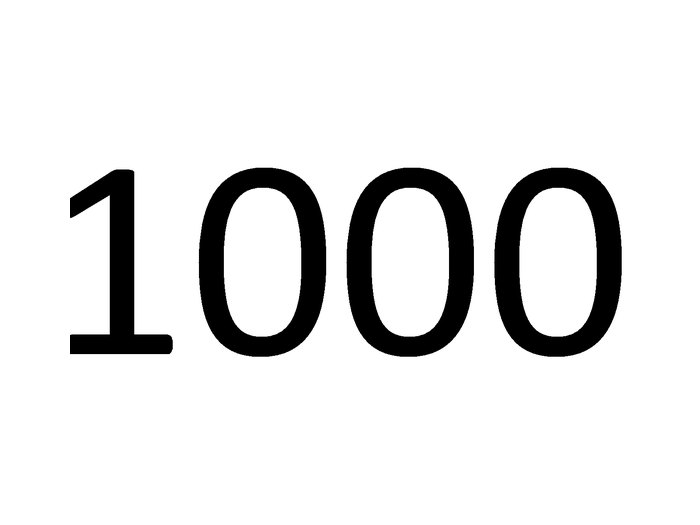
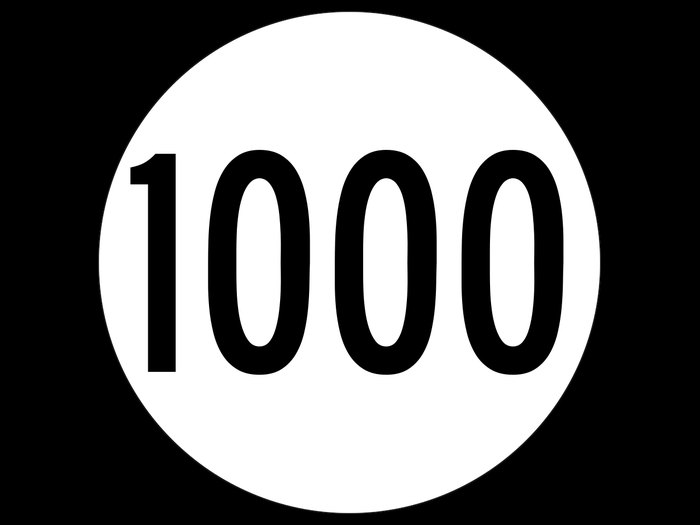
Planetas y números; la clave y las tarjetas legibles van en la lista
- Tarjetas nuevas: Urano (r); Júpiter, Marte, Saturno, catorce (ar);
  Venus, dos (es); cinco, once, quince, sesenta, setenta, ochenta,
  noventa (an); doce (ce); Nelson (al). Imágenes nuevas de uno, ocho, mil.
- Regla nueva: la palabra clave y cada tarjeta que se puede leer con lo
  visto (sin diptongos, trabadas ni sílabas al revés todavía no dadas)
  también va en «Palabras que ya se pueden leer»: 68 palabras agregadas.
  Momia, Antonio y Nelson (antes de al) quedan solo como tarjeta.

Claude-Session: https://claude.ai/code/session_01Q6txF3eTK3qEpQUY4Dkn8m

diff --git a/escritura/abecedario.js b/escritura/abecedario.js
@@ -149,7 +149,7 @@ window.ABECEDARIO = [
     silabas: ["lo", "le", "li", "lu", "la"],
     palabras: ["loma", "sala", "paloma", "lima", "lupa", "mula",
                "palo", "pule", "lomo", "pala", "ala", "alelí",
-               "lema", "ola", "pelo"],
+               "lema", "ola", "pelo","pila"],
     tarjetas: [
       { palabra: "lima", foto: "img/lecciones/l/lima.jpg" },
       { palabra: "lupa", foto: "img/lecciones/l/lupa.jpg" },
@@ -195,7 +195,7 @@ window.ABECEDARIO = [
     silabas: ["ne", "ni", "na", "nu", "no"],
     palabras: ["nena", "pino", "maní", "nulo", "mano", "pepino",
                "pena", "mina", "enano", "luna", "molino", "lana",
-               "uno", "melena"],
+               "uno", "melena","nene","mono"],
     tarjetas: [
       { palabra: "mono", foto: "img/lecciones/n/mono.jpg" },
       { palabra: "luna", foto: "img/lecciones/n/luna.jpg" },
@@ -290,7 +290,7 @@ window.ABECEDARIO = [
     silabas: ["da", "di", "do", "du", "de"],
     palabras: ["dama", "seda", "todo", "nada", "duda", "mudo",
                "pomada", "soda", "dime", "lado", "moneda", "pide",
-               "medida"],
+               "medida","dado","dedo","nudo","nido"],
     tarjetas: [
       { palabra: "dedo", foto: "img/lecciones/d/dedo.jpg" },
       { palabra: "nudo", foto: "img/lecciones/d/nudo.jpg" },
@@ -337,12 +337,13 @@ window.ABECEDARIO = [
     notaSilabas: "Van en el orden de la cartilla: ro, re, ra, ru, ri. Acuérdese de lo del aviso: sueltas suenan fuertes.",
     notaFrases: "Acá las imágenes son dibujos, no fotos de la casa. Léalas señalando con el dedo, palabra por palabra.",
     silabas: ["ro", "re", "ra", "ru", "ri"],
-    palabras: ["toro","salero","mora","muro","mariposa","torero","arena","madera","pera","loro","arete","marino"],
+    palabras: ["toro","salero","mora","muro","mariposa","torero","arena","madera","pera","loro","arete","marino","aro","tetero","arepa","Urano"],
     tarjetas: [
       { palabra: "aro", foto: "img/lecciones/r/aro.jpg" },
       { palabra: "tetero", foto: "img/lecciones/r/tetero.jpg" },
       { palabra: "loro", foto: "img/lecciones/r/loro.jpg" },
-      { palabra: "arepa", foto: "img/lecciones/r/arepa.jpg" }
+      { palabra: "arepa", foto: "img/lecciones/r/arepa.jpg" },
+      { palabra: "Urano", foto: "img/lecciones/r/urano.jpg" }
     ],
     frases: [
       { texto: "ese toro me mira.", foto: "img/lecciones/r/toro-mira.jpg", ancha: true, rel: "16 / 9" },
@@ -422,7 +423,7 @@ window.ABECEDARIO = [
     notaSilabas: "Solo son tres, no cinco. Con la e y la i la c suena distinto, y eso viene después.",
     notaFrases: "Acá las imágenes son dibujos, no fotos de la casa. Léalas señalando con el dedo, palabra por palabra.",
     silabas: ["ca", "co", "cu"],
-    palabras: ["casa","copa","pico","cono","camisa","saco","cuna","corona","loco","cara","capa","rico","cola"],
+    palabras: ["casa","copa","pico","cono","camisa","saco","cuna","corona","loco","cara","capa","rico","cola","carro","carreta"],
     tarjetas: [
       { palabra: "carro", foto: "img/lecciones/c/carro.jpg" },
       { palabra: "copa", foto: "img/lecciones/c/copa.jpg" },
@@ -470,7 +471,7 @@ window.ABECEDARIO = [
     notaFrases: "Acá las imágenes son dibujos, no fotos de la casa. Léalas señalando con el dedo, palabra por palabra.",
     silabas: ["ña", "ñi", "ñu", "ñe", "ño"],
     palabras: ["niña","niño","uña","año","moño","paño","leña","caña",
-               "señora","mañana","piña","muñeca"],
+               "señora","mañana","piña","muñeca","araña","puño","Toño"],
     tarjetas: [
       { palabra: "muñeca", foto: "img/lecciones/enie/muneca.jpg" },
       { palabra: "araña", foto: "img/lecciones/enie/arana.jpg" },
@@ -651,7 +652,7 @@ window.ABECEDARIO = [
     notaFrases: "Acá las imágenes son dibujos, no fotos de la casa. Léalas señalando con el dedo, palabra por palabra.",
     silabas: ["ya", "yi", "yo", "yu", "ye"],
     palabras: ["yate","yuca","yeso","yodo","rayo","mayo","raya","ayuno",
-               "payaso","yola","arroyo","soya"],
+               "payaso","yola","arroyo","soya","yema"],
     tarjetas: [
       { palabra: "yema", foto: "img/lecciones/y/yema.jpg" },
       { palabra: "rayo", foto: "img/lecciones/y/rayo.jpg" },
@@ -736,7 +737,7 @@ window.ABECEDARIO = [
     notaFrases: "Acá las imágenes son dibujos, no fotos de la casa. Léalas señalando con el dedo, palabra por palabra.",
     silabas: ["hi", "ha", "hu", "ho", "he"],
     palabras: ["hilo","humo","hora","haba","helado","herida","hada","hamaca",
-               "hábito","higo","herradura","hipo","hipopótamo"],
+               "hábito","higo","herradura","hipo","hipopótamo","herido"],
     tarjetas: [
       { palabra: "herido", foto: "img/lecciones/h/herido.jpg" },
       { palabra: "herradura", foto: "img/lecciones/h/herradura.jpg" },
@@ -781,7 +782,7 @@ window.ABECEDARIO = [
     silabas: ["ja", "ju", "ji", "jo", "je"],
     palabras: ["jarro","jugo","jirafa","jefe","joya","reja","paja","lujo",
                "teja","hijo","navaja","pájaro","oveja","oreja","aguja",
-               "hoja","Jesús"],
+               "hoja","Jesús","ojo","conejo","abeja","José"],
     tarjetas: [
       { palabra: "jarro", foto: "img/lecciones/j/jarro.jpg" },
       { palabra: "jirafa", foto: "img/lecciones/j/jirafa.jpg" },
@@ -828,7 +829,7 @@ window.ABECEDARIO = [
     notaFrases: "Acá las imágenes son dibujos, no fotos de la casa. Léalas señalando con el dedo, palabra por palabra.",
     silabas: ["zo", "zu", "za"],
     palabras: ["zorra","zapato","zumo","tiza","pozo","loza","buzo","cabeza",
-               "calabaza","zapote","tenaza","naturaleza"],
+               "calabaza","zapote","tenaza","naturaleza","pizarra"],
     tarjetas: [
       { palabra: "zapato", foto: "img/lecciones/z/zapato.jpg" },
       { palabra: "pozo", foto: "img/lecciones/z/pozo.jpg" },
@@ -874,7 +875,7 @@ window.ABECEDARIO = [
     silabas: ["lla", "llu", "lli", "lle", "llo"],
     palabras: ["llave","llama","llano","pollito","silla","calle","olla","botella",
                "gallina","capilla","ballena","anillo","galleta",
-               "amarillo","semilla","llavero"],
+               "amarillo","semilla","llavero","gallo","caballo"],
     tarjetas: [
       { palabra: "olla", foto: "img/lecciones/ll/olla.jpg" },
       { palabra: "gallo", foto: "img/lecciones/ll/gallo.jpg" },
@@ -968,13 +969,14 @@ window.ABECEDARIO = [
     notaFrases: "Acá las imágenes son dibujos, no fotos de la casa. Léalas señalando con el dedo, palabra por palabra.",
     silabas: ["ci", "ce"],
     palabras: ["cine","cena","cigarro","cebolla","tocino","cocina","doce","cepillo",
-               "cereza","cera","racimo","ceniza","cigarra","cacerola"],
+               "cereza","cera","racimo","ceniza","cigarra","cacerola","cocinero","maceta"],
     tarjetas: [
       { palabra: "cepillo", foto: "img/lecciones/ce/cepillo.jpg" },
       { palabra: "cebolla", foto: "img/lecciones/ce/cebolla.jpg" },
       { palabra: "cocina", foto: "img/lecciones/ce/cocina.jpg" },
       { palabra: "cocinero", foto: "img/lecciones/ce/cocinero.jpg" },
-      { palabra: "maceta", foto: "img/lecciones/ce/maceta.jpg" }
+      { palabra: "maceta", foto: "img/lecciones/ce/maceta.jpg" },
+      { palabra: "doce", foto: "img/lecciones/ce/doce.jpg" }
     ],
     frases: [
       { texto: "cocinero, dame la cena.", foto: "img/lecciones/ce/cocinero-cena.jpg", ancha: true, rel: "16 / 9" },
@@ -1011,7 +1013,7 @@ window.ABECEDARIO = [
     notaFrases: "Acá las imágenes son dibujos, no fotos de la casa. Léalas señalando con el dedo, palabra por palabra.",
     silabas: ["cho", "chu", "chi", "che", "cha"],
     palabras: ["choza","chivo","chorizo","chaleco","noche","techo","hacha","lechuga",
-               "ocho","coche","chocolate","leche","cachorro","chica","pechuga"],
+               "ocho","coche","chocolate","leche","cachorro","chica","pechuga","serrucho","cuchara","lechuza","Chepe"],
     tarjetas: [
       { palabra: "chivo", foto: "img/lecciones/ch/chivo.jpg" },
       { palabra: "serrucho", foto: "img/lecciones/ch/serrucho.jpg" },
@@ -1066,7 +1068,7 @@ window.ABECEDARIO = [
     notaFrases: "Acá las imágenes son dibujos, no fotos de la casa. Léalas señalando con el dedo, palabra por palabra.",
     silabas: ["que", "qui"],
     palabras: ["queso","chaqueta","líquido","quijada","máquina","paquete","queja","buque",
-               "pequeño","poquito","maqueta","maquila","equipo"],
+               "pequeño","poquito","maqueta","maquila","equipo","raqueta","químico"],
     tarjetas: [
       { palabra: "raqueta", foto: "img/lecciones/que/raqueta.jpg" },
       { palabra: "quijada", foto: "img/lecciones/que/quijada.jpg" },
@@ -1110,7 +1112,7 @@ window.ABECEDARIO = [
     notaSilabas: "Solo dos. La g suena como la j.",
     notaFrases: "Acá las imágenes son dibujos, no fotos de la casa. Léalas señalando con el dedo, palabra por palabra.",
     silabas: ["ge", "gi"],
-    palabras: ["gemelo","página","gema","generoso","gira","gitano","giro"],
+    palabras: ["gemelo","página","gema","generoso","gira","gitano","giro","género","gelatina"],
     tarjetas: [
       { palabra: "gema", foto: "img/lecciones/ge/gema.jpg" },
       { palabra: "gitano", foto: "img/lecciones/ge/gitano.jpg" },
@@ -1156,7 +1158,7 @@ window.ABECEDARIO = [
     silabas: ["es", "os", "is", "as", "us"],
     palabras: ["escudo","bosque","máscara","manos","asma","pasto","pescado","lunes",
                "escala","mosca","pasta","isla","estuche","susto","poste","pista",
-               "más","espeso","pues","mes","esposa","somos"],
+               "más","espeso","pues","mes","esposa","somos","papas","escoba","castillo","espejo","mosquito","pesas","espuma","espumoso","Venus","dos"],
     tarjetas: [
       { palabra: "isla", foto: "img/lecciones/es/isla.jpg" },
       { palabra: "escoba", foto: "img/lecciones/es/escoba.jpg" },
@@ -1165,7 +1167,9 @@ window.ABECEDARIO = [
       { palabra: "mosquito", foto: "img/lecciones/es/mosquito.jpg" },
       { palabra: "pesas", foto: "img/lecciones/es/pesas.jpg" },
       { palabra: "espuma", foto: "img/lecciones/es/espuma.jpg" },
-      { palabra: "espumoso", foto: "img/lecciones/es/espumoso.jpg" }
+      { palabra: "espumoso", foto: "img/lecciones/es/espumoso.jpg" },
+      { palabra: "Venus", foto: "img/lecciones/es/venus.jpg" },
+      { palabra: "dos", foto: "img/lecciones/es/dos.jpg" }
     ],
     frases: [
       { texto: "me asusta esa máscara.", foto: "img/lecciones/es/mascara.jpg", ancha: true, rel: "16 / 9" },
@@ -1208,7 +1212,7 @@ window.ABECEDARIO = [
     silabas: ["an", "in", "on", "un", "en"],
     palabras: ["banco","cinco","ventana","cinta","tinta","lanza","patín","ratón",
                "santo","menta","manzana","capitán","bandera","mundo","botón","naranja",
-               "ensalada","andén","linda","panda","limón"],
+               "ensalada","andén","linda","panda","limón","candado","pan","llanta","once","quince","sesenta","setenta","ochenta","noventa"],
     tarjetas: [
       { palabra: "candado", foto: "img/lecciones/an/candado.jpg" },
       { palabra: "mundo", foto: "img/lecciones/an/mundo.jpg" },
@@ -1219,7 +1223,14 @@ window.ABECEDARIO = [
       { palabra: "ratón", foto: "img/lecciones/an/raton.jpg" },
       { palabra: "llanta", foto: "img/lecciones/an/llanta.jpg" },
       { palabra: "Antonio", foto: "img/lecciones/t/antonio.jpg" },
-      { palabra: "Nelson", foto: "img/lecciones/n/nelson.jpg" }
+      { palabra: "Nelson", foto: "img/lecciones/n/nelson.jpg" },
+      { palabra: "cinco", foto: "img/lecciones/an/cinco.jpg" },
+      { palabra: "once", foto: "img/lecciones/an/once.jpg" },
+      { palabra: "quince", foto: "img/lecciones/an/quince.jpg" },
+      { palabra: "sesenta", foto: "img/lecciones/an/sesenta.jpg" },
+      { palabra: "setenta", foto: "img/lecciones/an/setenta.jpg" },
+      { palabra: "ochenta", foto: "img/lecciones/an/ochenta.jpg" },
+      { palabra: "noventa", foto: "img/lecciones/an/noventa.jpg" }
     ],
     frases: [
       { texto: "tengo una manzana roja y jugosa.", foto: "img/lecciones/an/manzana-roja.jpg", ancha: true, rel: "16 / 9" },
@@ -1260,7 +1271,7 @@ window.ABECEDARIO = [
     notaFrases: "Acá las imágenes son dibujos, no fotos de la casa. Léalas señalando con el dedo, palabra por palabra.",
     silabas: ["ar", "ur", "ir", "er", "or"],
     palabras: ["arpa","parque","collar","barco","gordo","circo","hermano","jardín",
-               "cerdo","curva","azúcar","hormiga","olor","perla","urna","ordenar","mármol"],
+               "cerdo","curva","azúcar","hormiga","olor","perla","urna","ordenar","mármol","tortuga","ardilla","dormilón","hermanos","perlas","torta","Jorge","Martha","Júpiter","Marte","Saturno","catorce"],
     tarjetas: [
       { palabra: "ardilla", foto: "img/lecciones/ar/ardilla.jpg" },
       { palabra: "circo", foto: "img/lecciones/ar/circo.jpg" },
@@ -1272,7 +1283,11 @@ window.ABECEDARIO = [
       { palabra: "urna", foto: "img/lecciones/ar/urna.jpg" },
       { palabra: "hormiga", foto: "img/lecciones/ar/hormiga.jpg" },
       { palabra: "Jorge", foto: "img/lecciones/ar/jorge.jpg" },
-      { palabra: "Martha", foto: "img/lecciones/ar/martha.jpg" }
+      { palabra: "Martha", foto: "img/lecciones/ar/martha.jpg" },
+      { palabra: "Júpiter", foto: "img/lecciones/ar/jupiter.jpg" },
+      { palabra: "Marte", foto: "img/lecciones/ar/marte.jpg" },
+      { palabra: "Saturno", foto: "img/lecciones/ar/saturno.jpg" },
+      { palabra: "catorce", foto: "img/lecciones/ar/catorce.jpg" }
     ],
     frases: [
       { texto: "esa hormiga carga su terrón de azúcar.", foto: "img/lecciones/ar/hormiga-azucar.jpg", ancha: true, rel: "16 / 9" },
@@ -1315,14 +1330,15 @@ window.ABECEDARIO = [
     notaFrases: "Acá las imágenes son dibujos, no fotos de la casa. Léalas señalando con el dedo, palabra por palabra.",
     silabas: ["al", "ul", "el", "il", "ol"],
     palabras: ["caldo","polvo","barril","salsa","selva","soldado","pastel","mantel",
-               "culpa","pulpo","dedal","panal","sal","mal","mil","Elsa","Sulma"],
+               "culpa","pulpo","dedal","panal","sal","mal","mil","Elsa","Sulma","sol","Nelson"],
     tarjetas: [
       { palabra: "soldado", foto: "img/lecciones/al/soldado.jpg" },
       { palabra: "pulpo", foto: "img/lecciones/al/pulpo.jpg" },
       { palabra: "dedal", foto: "img/lecciones/al/dedal.jpg" },
       { palabra: "pastel", foto: "img/lecciones/al/pastel.jpg" },
       { palabra: "sal", foto: "img/lecciones/al/sal.jpg" },
-      { palabra: "mil", foto: "img/lecciones/al/mil.jpg" }
+      { palabra: "mil", foto: "img/lecciones/al/mil.jpg" },
+      { palabra: "Nelson", foto: "img/lecciones/n/nelson.jpg" }
     ],
     frases: [
       { texto: "a ese soldado le falta su fusil.", foto: "img/lecciones/al/soldado-fusil.jpg", ancha: true, rel: "16 / 9" },
